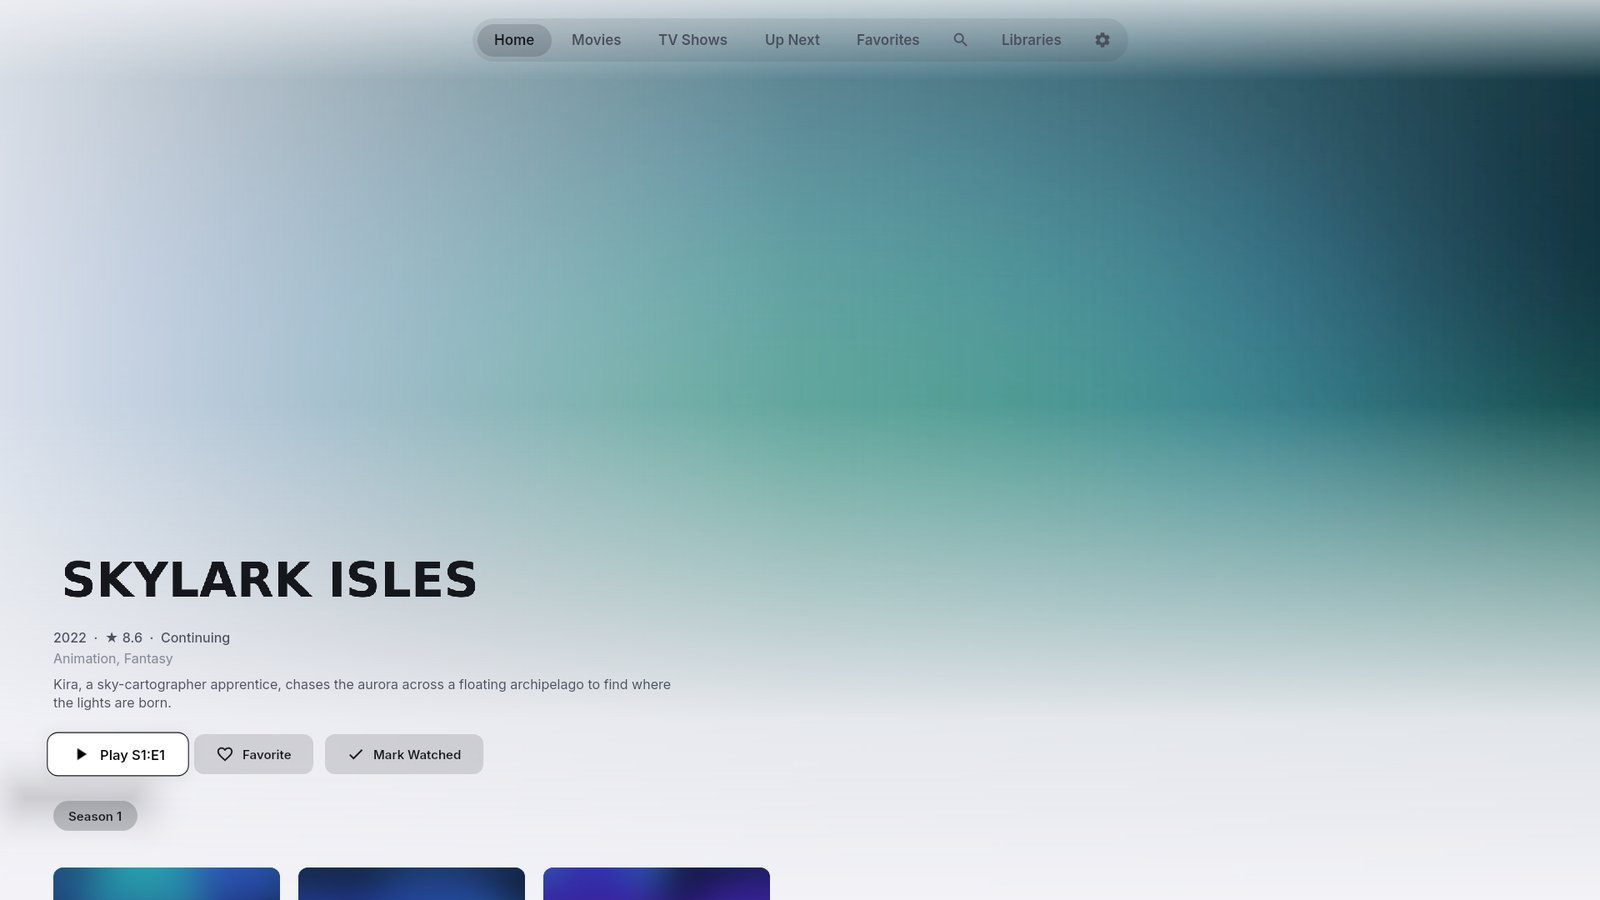
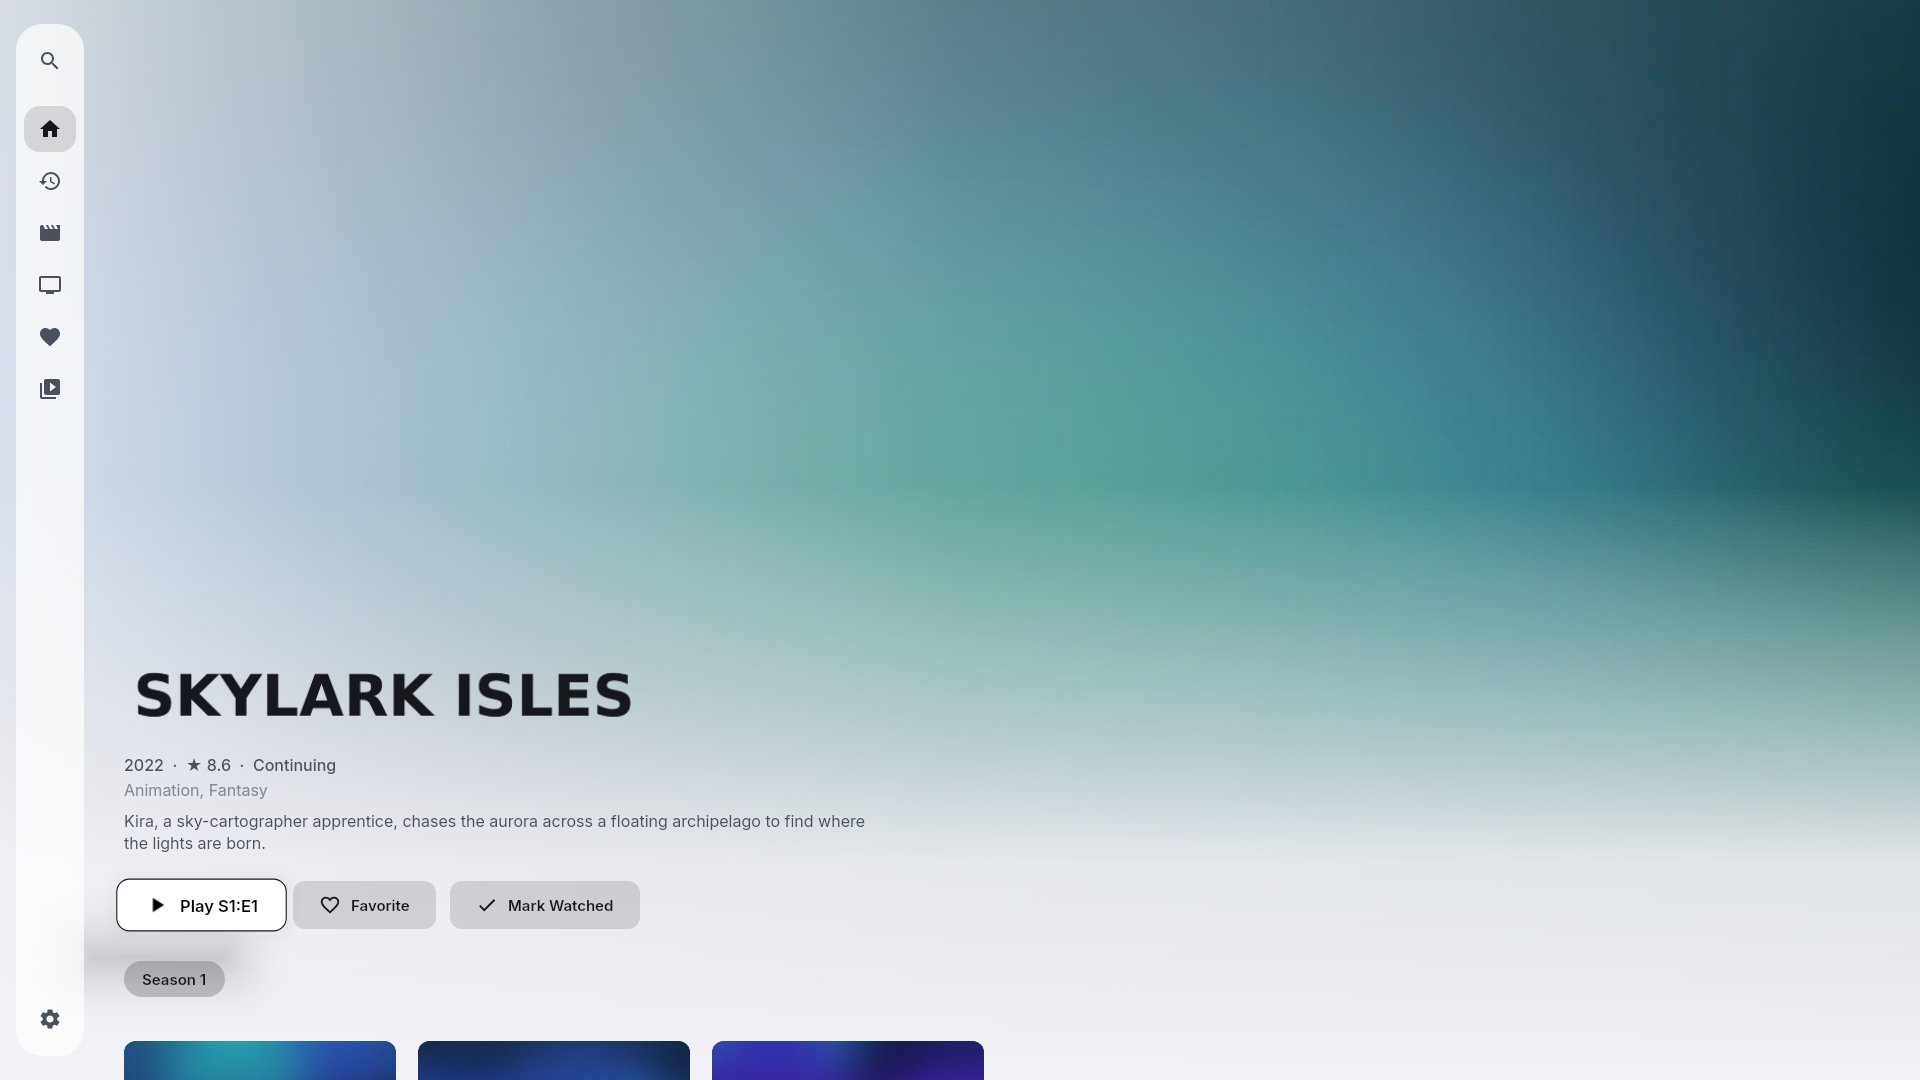
Sidebar shows the selected section; docs and screenshots for sidebar, detection and subtitle rules
Claude-Session: https://claude.ai/code/session_012yVGuueTZLX3f5Rno8LNU3

diff --git a/shared/src/commonMain/kotlin/com/auroratv/ui/nav/Navigator.kt b/shared/src/commonMain/kotlin/com/auroratv/ui/nav/Navigator.kt
@@ -94,8 +94,12 @@ class Navigator(initial: Route) {
 
     fun focusRestored() { restoringFocus = false }
 
+    /** Reads [current] so composables showing the selected section (the sidebar) update when it changes. */
     val currentSection: Section
-        get() = (stack.first().route as? Route.Root)?.section ?: Section.Home
+        get() {
+            current // snapshot read: stack changes always replace `current`
+            return (stack.first().route as? Route.Root)?.section ?: Section.Home
+        }
 }
 
 val LocalNavigator = staticCompositionLocalOf<Navigator> { error("No navigator") }

diff --git a/README.md b/README.md
@@ -25,8 +25,10 @@ both platforms.
 * Movies, TV Shows and folder libraries with sort (A–Z, added, release, rating, last watched), filters (unwatched, watched, favorites) and paging
 * Detail pages: backdrop, logo, metadata, resume/restart, favorite, watched, seasons and episodes, cast, More Like This, media info
 * Search, Continue Watching, Favorites, Libraries (including collections)
-* Player (tvOS-style): a scrubber with a time bubble and **trickplay thumbnail previews** (D-pad, or mouse click/drag/hover), chapter ticks, and **intro/recap/credits ranges marked in yellow** (from server media segments, or chapter names like "Opening"/"Ending"). An **in-player episode browser** (season picker plus episode cards). Chapters, audio and subtitle sheets, and a playback info panel (play method, transcode reasons, decoder). Skip Intro/Recap/Credits and Next Episode prompts that hide after 8 seconds and return with the controls, Up Next with countdown, resume and progress sync. A visible **Back** button; Back/Esc leaves the player in one press, and on Windows clicking the picture pauses and closing the window exits.
-* tvOS-style navigation: top tab bar (Back from content goes to the tab bar), full-screen featured titles you can page with Left/Right, focus lift with a light sheen, rounded buttons, and the Inter typeface (open-source, in the style of San Francisco)
+* Player (tvOS-style): a scrubber with a time bubble and **trickplay thumbnail previews** (D-pad, or mouse click/drag/hover), chapter ticks, and **intro/recap/credits ranges marked in yellow**: from server media segments, chapter names like "Opening"/"Ending", or, when the server has neither, **detected automatically** (an opening/ending chapter whose length repeats across the season, or for anime the crowd-sourced [AniSkip](https://aniskip.com) database). An **in-player episode browser** (season picker plus episode cards). Chapters, audio and subtitle sheets, and a playback info panel (play method, transcode reasons, decoder). Skip Intro/Recap/Credits prompts that hide after 8 seconds and return with the controls; **Next Episode appears only once the credits start**; Up Next with countdown, resume and progress sync. A visible **Back** button; Back/Esc leaves the player in one press, and on Windows clicking the picture pauses and closing the window exits.
+* Subtitles: Default / Always / Smart / Forced-only modes. Anime "Signs & Songs" tracks are never picked as the main subtitles when the audio is Japanese (the full track is used); with an English dub they act as the forced track
+* Optional **frame-rate matching** on Android TV (24p films at 24 Hz)
+* tvOS-style navigation: a floating **sidebar** (a slim icon rail that expands with labels when focused; Left or Back opens it), full-screen featured titles (Right on More Info pages to the next one), focus lift with a light sheen, rounded buttons, and the Inter typeface (open-source, in the style of San Francisco)
 * Dark, Light and System themes across the entire app, including the player; artwork-derived accent colours
 * Fire TV remote, keyboard, mouse and Xbox-compatible controllers (Windows)
 

diff --git a/docs/TEST_RESULTS.md b/docs/TEST_RESULTS.md
@@ -29,6 +29,9 @@ manual claims. Each run publishes its raw reports and screenshots to the
 | Artwork | BlurHash average colour, accent extraction (skips near-grey art), placeholder decode |
 | Transcoding profile | H.264 is listed first (fast server encodes), HEVC second for stream copy |
 | Trickplay | Jellyfin `Trickplay` sheets parsed; the smallest set ≥ 320 px is used; tile URL format |
+| Signs & Songs | never the default dialogue track with Japanese audio (Default/Always/Smart); used as the forced track for dubs; title variants recognised, "Sign Language"/"Full" excluded |
+| Next Episode | offered from the credits start (chapters, segments or detection), else the final two minutes |
+| Intro/credits detection | recurring chapter lengths across a season → opening/ending; periodic chapters ignored; AniSkip via AniList title search + sequel walk, only for anime, only for missing kinds, title/year must match, Jellyfin token never sent to third parties, nothing sent when the setting is off |
 
 **Result: all passing.**
 
@@ -106,7 +109,8 @@ server. Debug builds log every remote key the activity receives, so the run prov
 
 * typed the server address and pressed Enter → login; typed credentials → Home ✅
 * **D-pad Down** moved focus from the hero into the first rail; **Right + Select** opened that movie's
-  detail page; **Back** returned Home with focus restored to the same card; **Left** expanded the side menu ✅
+  detail page; **Back** returned Home with focus restored to the same card; **Back** again opened the
+  sidebar; **Down + Select** in the sidebar switched to Up Next ✅
 * **D-pad Down ×4** in Settings reached the About page, which lists the detected decoders and
   capabilities (Media3 1.8.0, software H.264/HEVC on the emulator, Keystore token storage) ✅
 * played video through Media3. The emulator's decoders were probed (software, ≤1080p) and the

diff --git a/docs/KNOWN_LIMITATIONS.md b/docs/KNOWN_LIMITATIONS.md
@@ -62,8 +62,15 @@ can only be confirmed on that device; CI can't test them.
   so in that case the server would neither tone-map nor flag it as HDR. If HDR titles look washed out,
   refresh their metadata on the server.
 
-* **Skip Intro** needs Jellyfin 10.10+ media segments, produced by a segment provider plugin (e.g.
-  *Intro Skipper*). Without one, no Skip button appears.
+* **Intro/credits markers, in order of reliability:** server media segments (Jellyfin 10.10+ with a
+  provider plugin; *Intro Skipper* fingerprints audio and covers every TV show, so it's the best
+  option), then chapter names, then Aurora's own detection. The detection only works when (a) the
+  files have chapters and an opening/ending chapter of the same length recurs in other episodes of
+  the season, or (b) the show is anime that AniSkip knows. AniSkip times are crowd-sourced, and
+  mapping a Jellyfin season onto a MyAnimeList entry (via provider ids, or an AniList title search
+  that must match the show's title or year) can still pick the wrong entry for unusually split
+  seasons, so markers can occasionally be off. Online lookups send only the show title or MAL id and
+  the episode number; they can be turned off in Settings → Playback.
 * Requires **Jellyfin 10.9 or newer** (uses the 10.9+ routes such as `/UserViews`, `/UserItems/Resume`,
   `/UserFavoriteItems`).
 * Live TV, music libraries, photos, SyncPlay and Quick Connect aren't implemented; Aurora focuses on

diff --git a/docs/ARCHITECTURE.md b/docs/ARCHITECTURE.md
@@ -70,7 +70,16 @@ touch the platform are native: video decoding and rendering, secure storage, and
    and hover. When the server has trickplay sheets (Jellyfin 10.9+), the bubble shows a thumbnail:
    each sprite sheet is decoded once and the frame is picked with an offset, so moving within a sheet
    costs no network or decode work.
-9. **Errors**: an engine error offers "Try with transcoding", which renegotiates with Direct Play
+9. **Skip markers** (`SkipDetector`): server media segments → chapter names → detection, merged per
+   kind so detection only fills what the server lacks. Detection first looks for an unnamed chapter
+   whose length (±1.5 s) recurs in other episodes of the season near the start (opening) or end
+   (ending), ignoring files with periodic chapters. For anime it then asks AniSkip by MyAnimeList id
+   (from provider ids, or AniList: title search checked against the series title/year, then SEQUEL
+   relations for later seasons and split cours). It runs after playback starts, with an 8 s real-time
+   timeout, over a plain HTTP client that never carries the Jellyfin token.
+10. **Next Episode** is offered from the start of the credits range (or the final two minutes when
+   there's no credits marker), not throughout the episode.
+11. **Errors**: an engine error offers "Try with transcoding", which renegotiates with Direct Play
    disabled. That's the right fallback for decoder or container failures.
 
 ## UI and focus

diff --git a/docs/screenshots/README.md b/docs/screenshots/README.md
@@ -7,9 +7,9 @@ library (all artwork, titles and video are generated, nothing third-party).
 
 | | |
 |---|---|
-| ![](android-tv-00-connect.jpg) Connect | ![](android-tv-01-home.jpg) Home: tab bar, full-screen featured title |
+| ![](android-tv-00-connect.jpg) Connect | ![](android-tv-01-home.jpg) Home: sidebar rail, full-screen featured title |
 | ![](android-tv-02-dpad-rail-focus.jpg) D-pad Down into a rail (tvOS lift + sheen) | ![](android-tv-03-movie-detail.jpg) Select → detail page |
-| ![](android-tv-04-tab-bar.jpg) Back → focus moves to the tab bar | ![](android-tv-05-series-detail.jpg) Series detail with episodes |
+| ![](android-tv-04-sidebar.jpg) Back → the sidebar opens | ![](android-tv-05-series-detail.jpg) Series detail with episodes |
 | ![](android-tv-07-player-yellow-intro-credits.jpg) Player: intro and credits ranges in yellow on the scrubber, Back, Episodes/Chapters/Subtitles/Info | ![](android-tv-06-libass-anime-typesetting.jpg) libass: rotated/moving signs, `\clip`+`\t`, karaoke |
 | ![](android-tv-10-player-episode-browser.jpg) In-player episode browser (Down from the timeline) | ![](android-tv-08-hevc-main10-styled-ass.jpg) Styled ASS (colours, `\pos`, simultaneous lines) |
 | ![](android-tv-09-about-capabilities.jpg) Settings → About: detected capabilities | |
